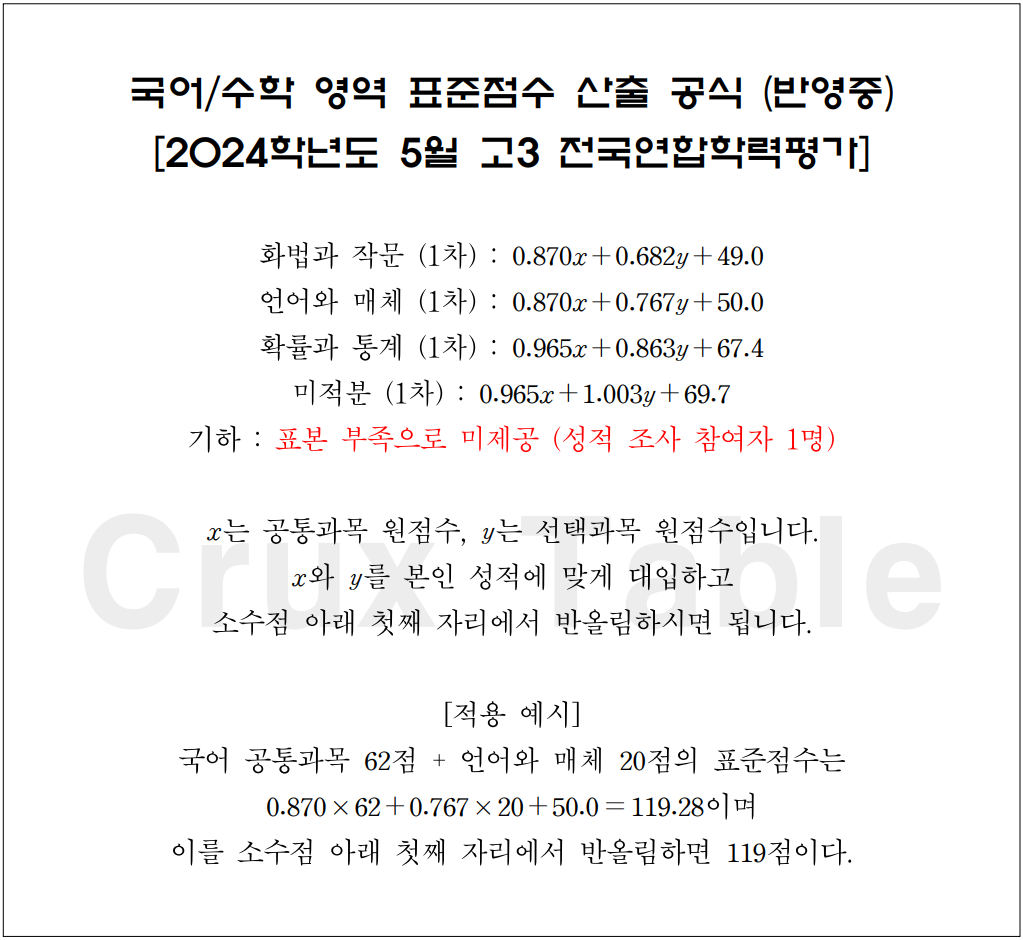
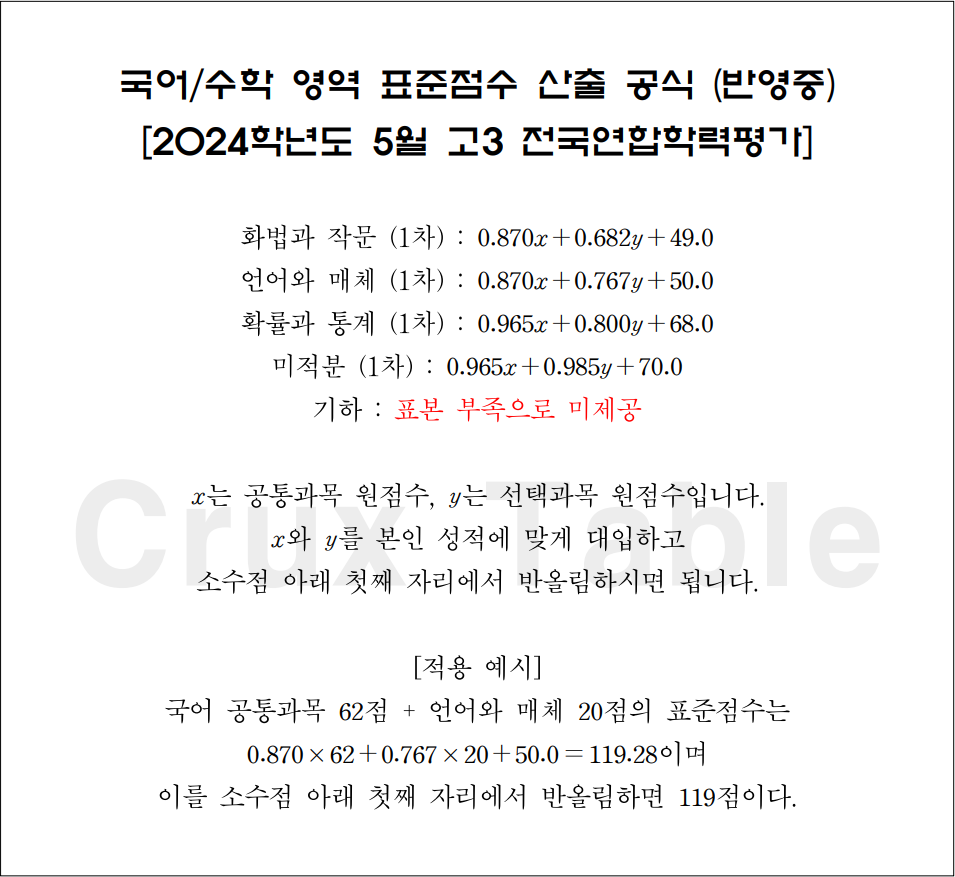
202405

diff --git a/js/data.js b/js/data.js
@@ -2098,8 +2098,8 @@ let data = {
         ],
         "수학": [
             {
-                "확률과 통계": [0.965, 0.863, 67.4],
-                "미적분": [0.965, 1.003, 69.7],
+                "확률과 통계": [0.965, 0.8, 68],
+                "미적분": [0.965, 0.985, 70],
                 "기하": [0, 0, 0]
             },
             ["167", "99.98", "1"],
